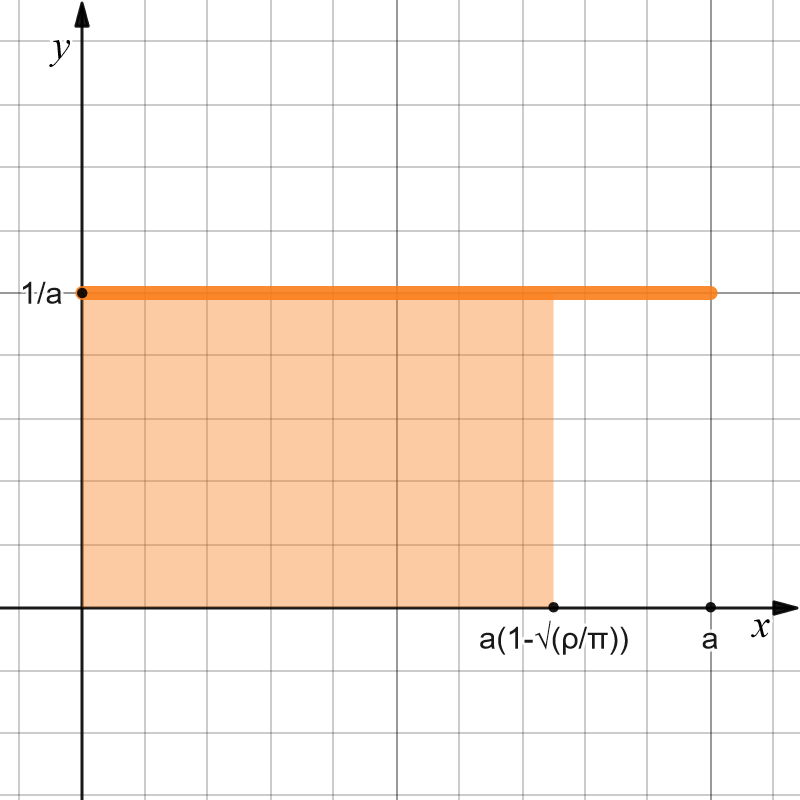
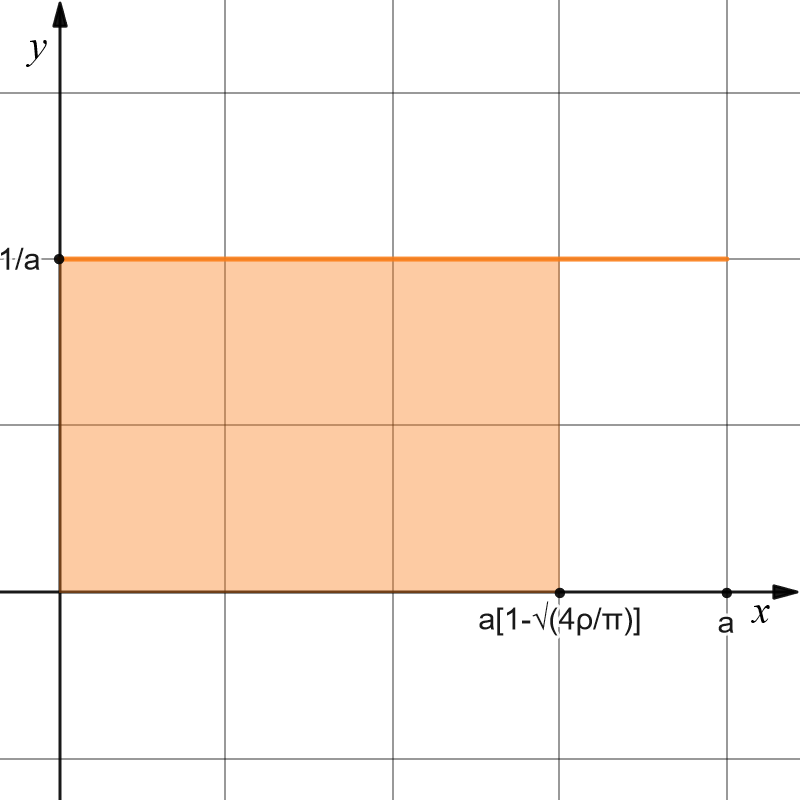
Fix solution and images

diff --git a/_posts/2023-07-21-random_circle.md b/_posts/2023-07-21-random_circle.md
@@ -15,12 +15,14 @@ In this mathematical puzzle, we'll exercise our minds with basic probability and
 Given a circle $C_a$ of radius $a$ centered at the origin, [inscribed](https://en.m.wikipedia.org/wiki/Inscribed_figure) in a square $S$ of side $2a$.
 
 ![png](statement-S_and_Ca.png){: w="500" h="500"}
+_A circle $C_a$ inscribed in a square $S$._
 
 Consider a random variable $B \sim \text{Uniform}(0, a)$, the random variables $X, Y \sim \text{Uniform}(-a, a)$, the outcomes $b \in B$, $x \in X$ and $y \in Y$, and a real number $\rho \in [0, 1)$.
 
 Find the probability of observing an outcome $b$ such that the probability of a circle $C_b$ with radius $b$ centered at $P = (x, y)$ being fully contained within $C_a$ is greater than $\rho$.
 
 ![gif](statement-sampling_Cb.gif){: w="500" h="500"}
+_Example of sampling random $C_b$ circles for a fixed value of $b$._
 
 That is, find the probability of observing an outcome $b$ such that:
 
@@ -28,11 +30,14 @@ $$
 \mathbb{P}\{C_b \subseteq C_a\} > \rho
 $$
 
+> Note that $C_b$ is not necessarily fully contained in $S$.
+{: .prompt-info }
+
 ## Solution
 
 ### Probability of $C_b \subseteq C_a$
 
-Let's think of a point $P$ inside the square $S$. The circle $C_b$ is described by the circumference of radius $b$ centered at $P$. If $C_b$ is fully contained in $C_a$, the distance between $P$ and the circumference of $C_a$ must be greater than $b$.
+Let's consider a point $P$ inside the square $S$. The circle $C_b$ is described by the circumference of radius $b$ centered at $P$. If $C_b$ is fully contained in $C_a$, then $P$ must be inside $C_a$, and the distance between $P$ and the circumference of $C_a$ must be greater than $b$.
 
 ![png](step1.png){: w="1000" h="500"}
 
@@ -43,7 +48,7 @@ This means that $C_b$ is fully contained in $C_a$ if and only if its center $P$ 
 Then the probability that $C_b$ is fully contained in $C_a$ is the ratio between the area of $C_{ab}$ and the area of $S$:
 
 $$
-\mathbb{P}\{C_b \subseteq C_a\} = \frac{\pi (a-b)^2}{a^2}
+\mathbb{P}\{C_b \subseteq C_a\} = \frac{\pi (a-b)^2}{(2a)^2} = \frac{\pi}{4} \frac{(a-b)^2}{a^2}
 $$
 
 ### Probability of $\mathbb{P}(C_b \subseteq C_a) > \rho$
@@ -57,13 +62,13 @@ $$
 that is
 
 $$
-\frac{\pi (a-b)^2}{a^2} > \rho
+\frac{\pi}{4} \frac{(a-b)^2}{a^2} > \rho
 $$
 
 By clearing $b$ from the inequality, we get
 
 $$
-b < a \left(1 - \sqrt{\frac{\rho}{\pi}}\right)
+b < a \left(1 - \sqrt{\frac{4}{\pi} \rho }\right)
 $$
 
 As $B$ is a uniformly distributed within the interval $[0, a]$, its probability density function is:
@@ -76,16 +81,16 @@ f(x) =
      \end{cases}
 $$
 
-Then the probability of $b < a \left(1 - \sqrt{\frac{\rho}{\pi}}\right)$ is simply the area of the rectangle with height $\frac{1}{a}$ and base $a \left(1 - \sqrt{\frac{\rho}{\pi}}\right)$
+Then the probability of $b < a \left(1 - \sqrt{\frac{4}{\pi} \rho }\right)$ is simply the area of the rectangle with height $\frac{1}{a}$ and base $a \left(1 - \sqrt{\frac{4}{\pi} \rho }\right)$
 
-![png](step3.png){: w="500" h="500"}
+![png](step3.png){: w="400" h="400"}
 
 $$
-P\Big\{b < a \left(1 - \sqrt{\frac{\rho}{\pi}}\right)\Big\} = \frac{1}{a} \cdot a \left(1 - \sqrt{\frac{\rho}{\pi}}\right) = 1 - \sqrt{\frac{\rho}{\pi}}
+P\Big\{b < a \left(1 - \sqrt{\frac{4}{\pi} \rho }\right)\Big\} = \frac{1}{a} \cdot a \left(1 - \sqrt{\frac{4}{\pi} \rho }\right) = 1 - \sqrt{\frac{4}{\pi} \rho }
 $$
 
 Therefore, the probability of observing an outcome $b$ such that $\mathbb{P}${$C_b \subseteq C_a$}$ > \rho$ is
 
 $$
-\therefore \mathbb{P}\Big\{\mathbb{P}\{C_b \subseteq C_a\} > \rho\Big\} = 1 - \sqrt{\frac{\rho}{\pi}}
+\therefore \mathbb{P}\Big\{\mathbb{P}\{C_b \subseteq C_a\} > \rho\Big\} = 1 - \sqrt{\frac{4}{\pi} \rho }
 $$
